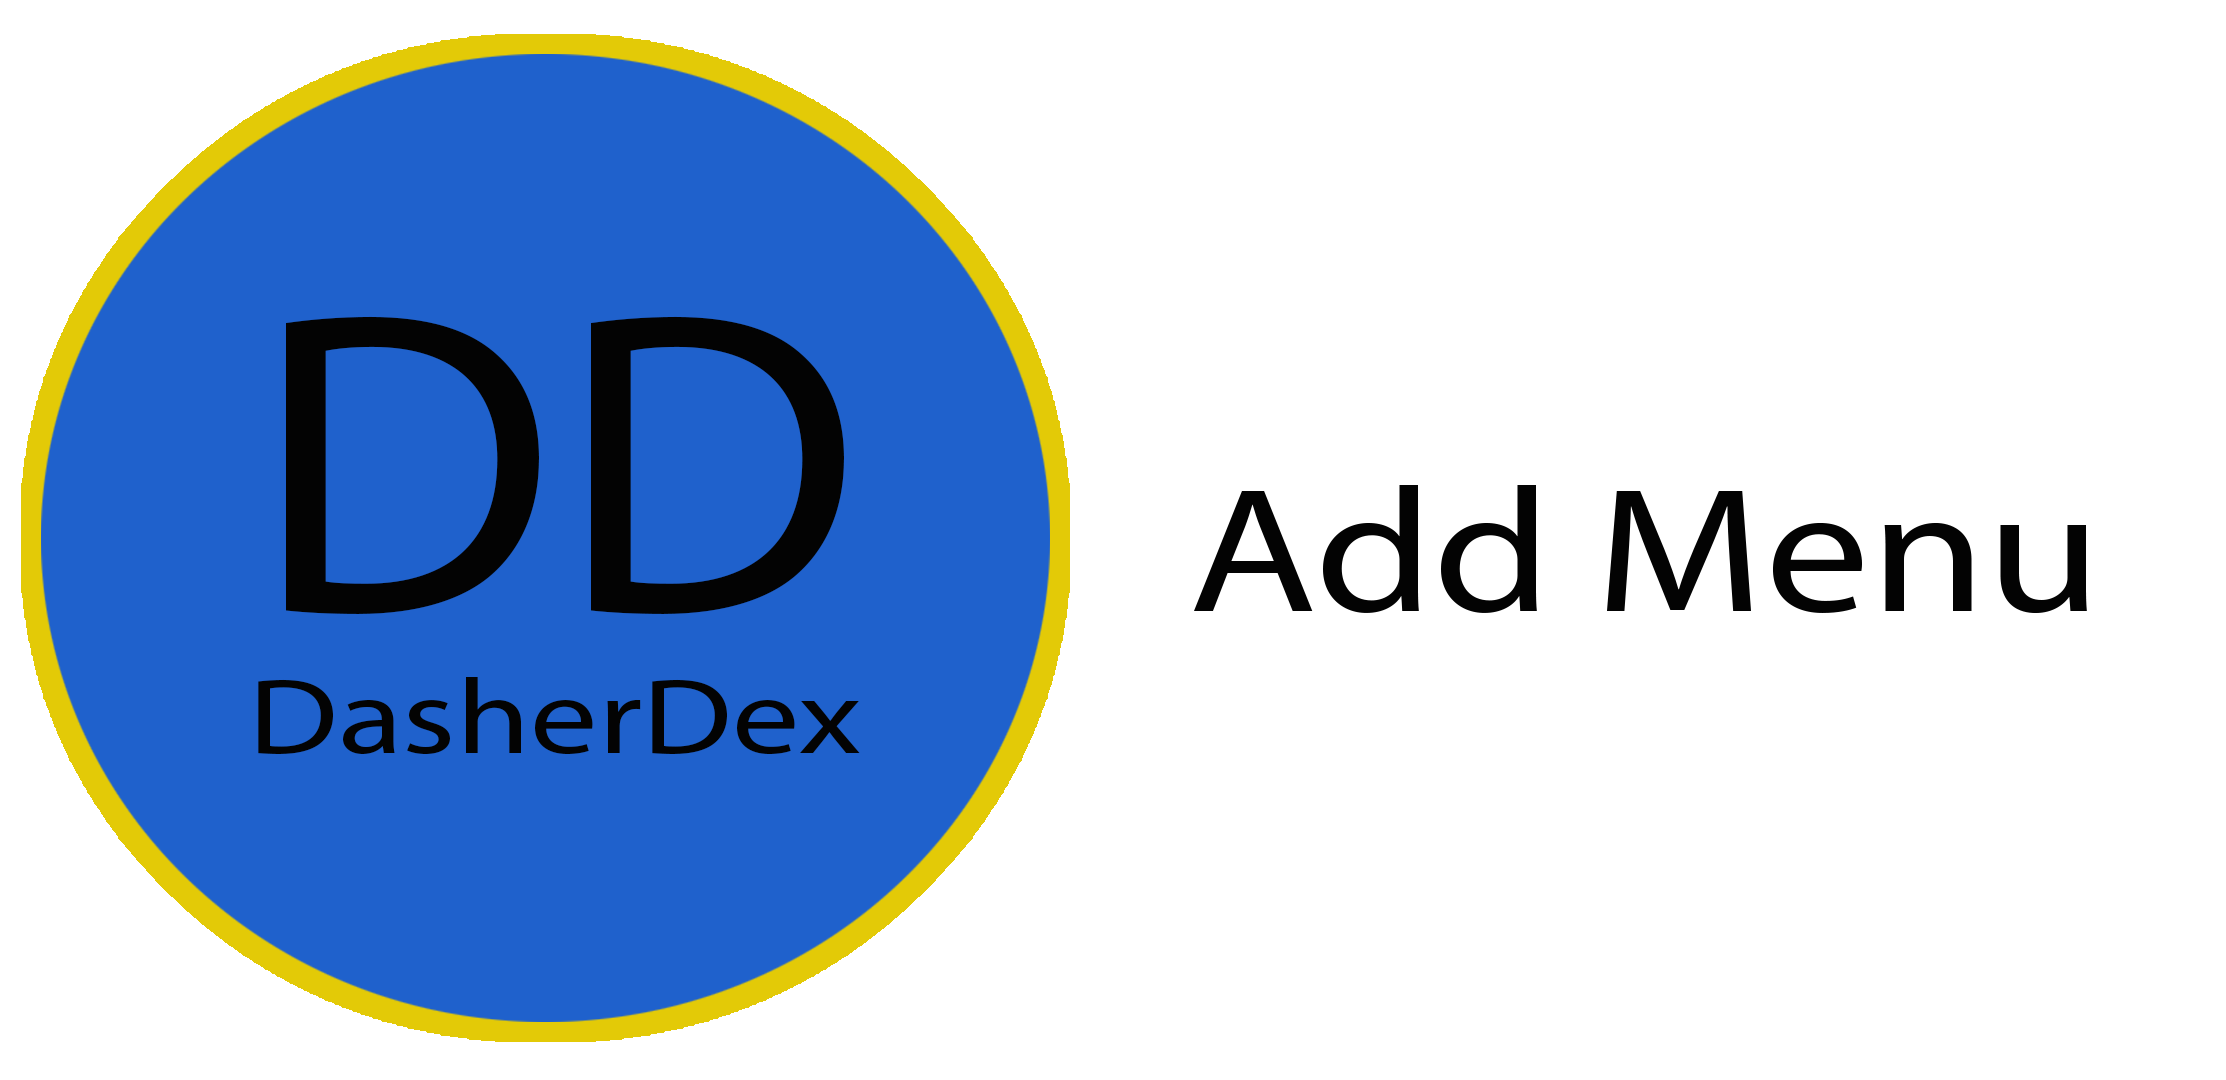
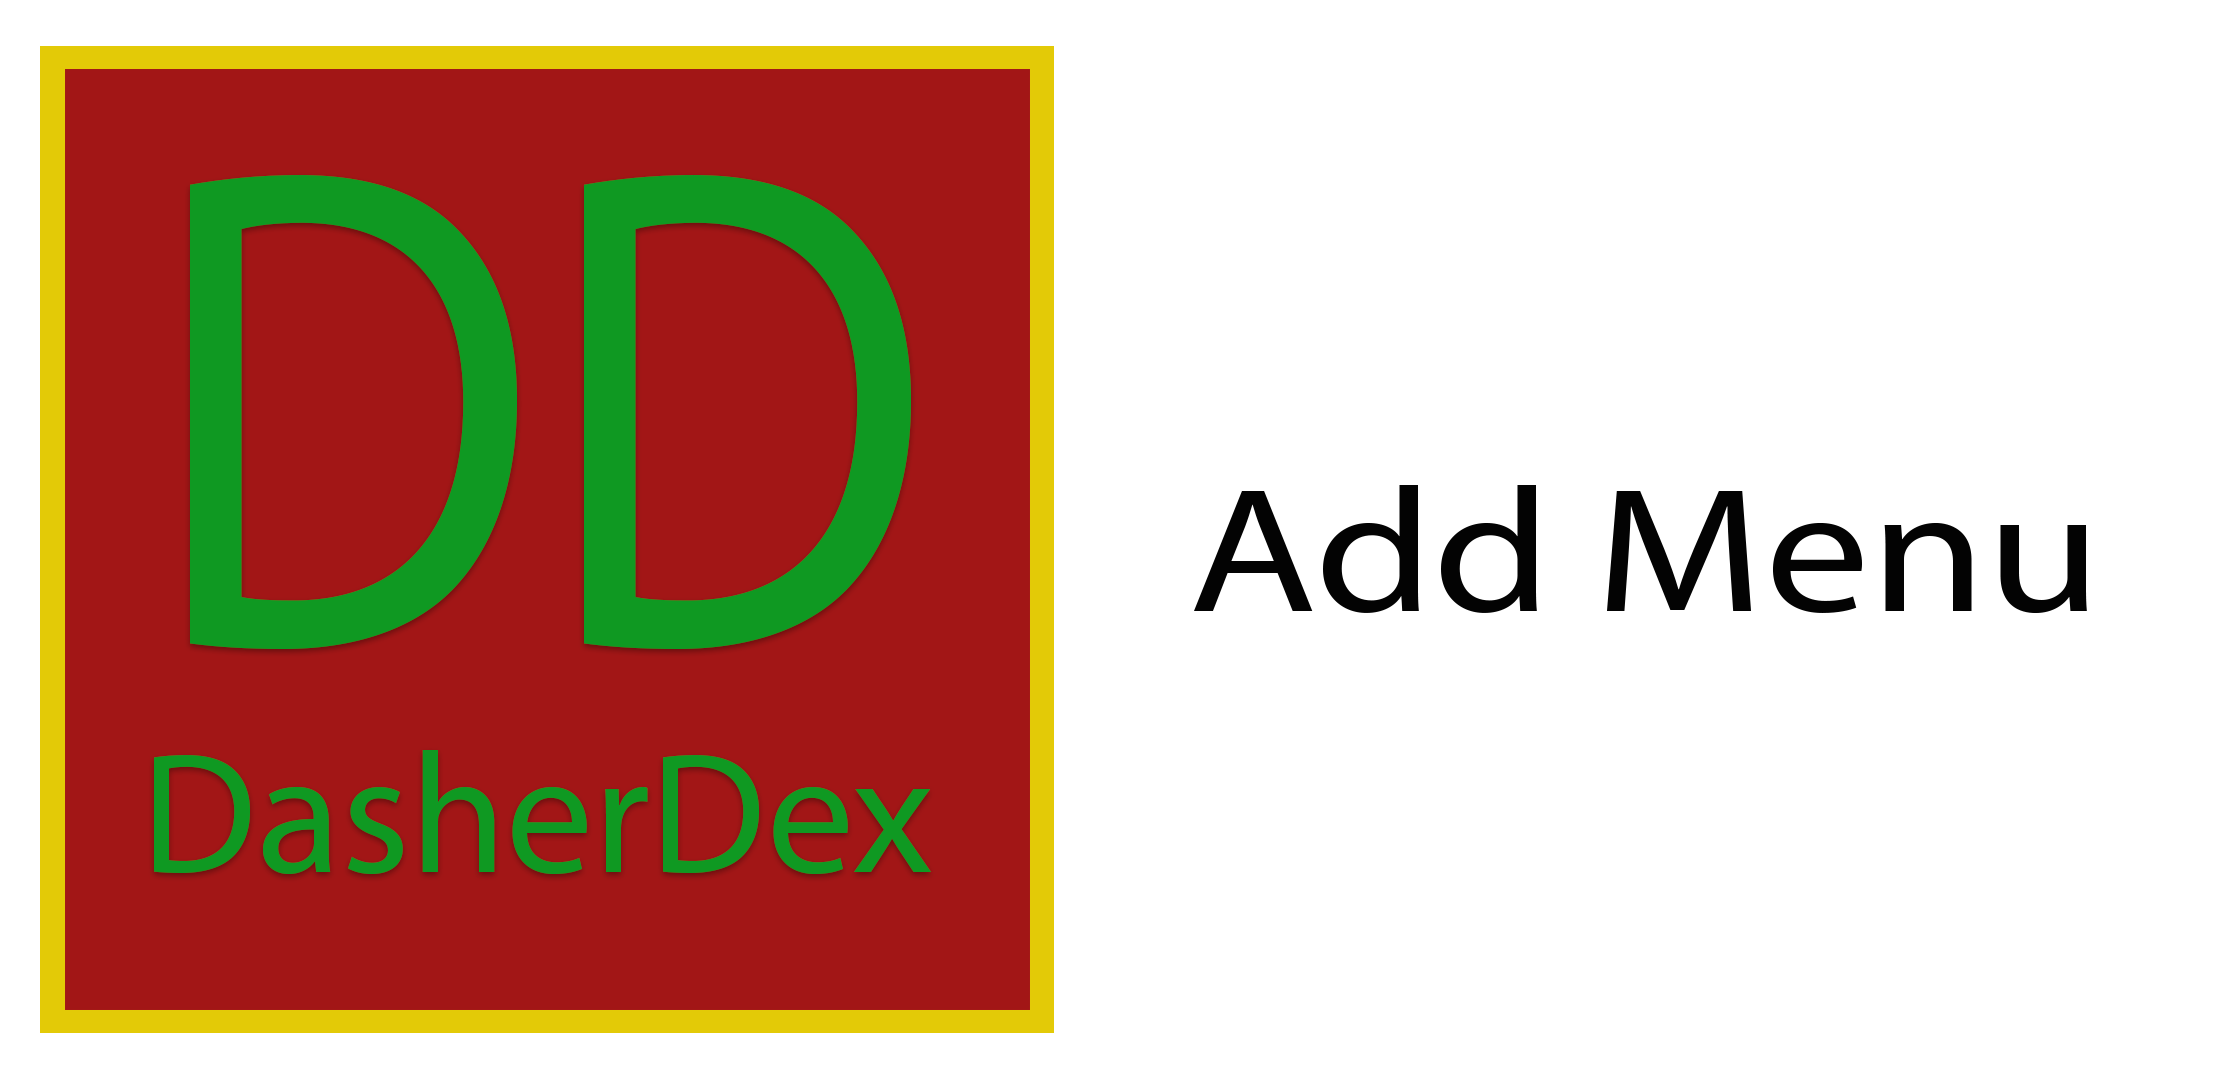
Changed DasherDex design to be more holiday like

diff --git a/05-Implementation/src/UI/sample/resources/stylesheet.css b/05-Implementation/src/UI/sample/resources/stylesheet.css
@@ -7,6 +7,6 @@
     background-color: green;
 }
 #vBoxSearch {
-    -fx-background-color: red;
-    background-color: red;
+    -fx-background-color: green;
+    background-color: green;
 }

diff --git a/05-Implementation/src/UI/sample/appControllers/MainMenuController.java b/05-Implementation/src/UI/sample/appControllers/MainMenuController.java
@@ -42,20 +42,12 @@ public class MainMenuController {
     public HBox hBoxName = new HBox();
 
     public void item1On(ActionEvent searchNameEvent) throws SQLException {
-        /*searchTypeTextField.setVisible(false);
-        searchTypeButton.setVisible(false);
-        searchNameTextField.setVisible(true);
-        searchNameButton.setVisible(true);*/
         hBoxType.setVisible(false);
         hBoxName.setVisible(true);
         searchParameterDropDown.setText("Search Parameter: Name");
     }
 
     public void item2On(ActionEvent searchTypeEvent) throws SQLException {
-        /*searchNameTextField.setVisible(false);
-        searchNameButton.setVisible(false);
-        searchTypeTextField.setVisible(true);
-        searchTypeButton.setVisible(true);*/
         hBoxType.setVisible(true);
         hBoxName.setVisible(false);
         searchParameterDropDown.setText("Search Parameter: Type");
